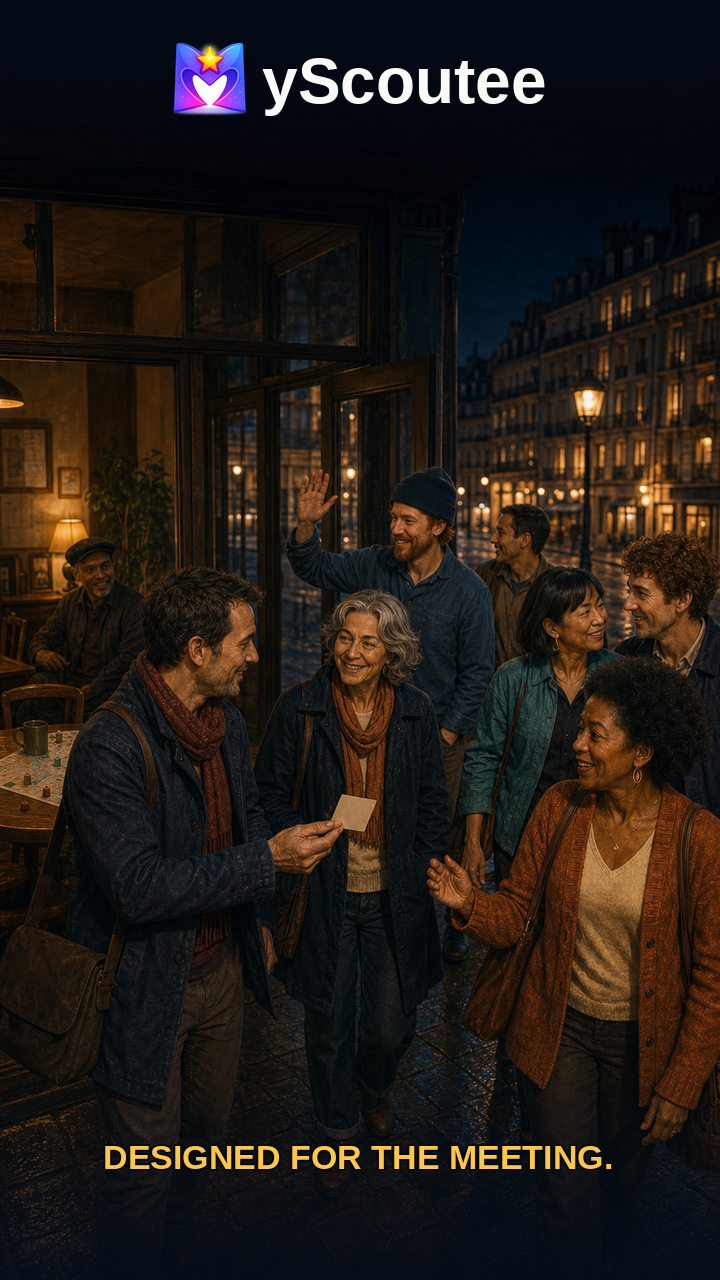
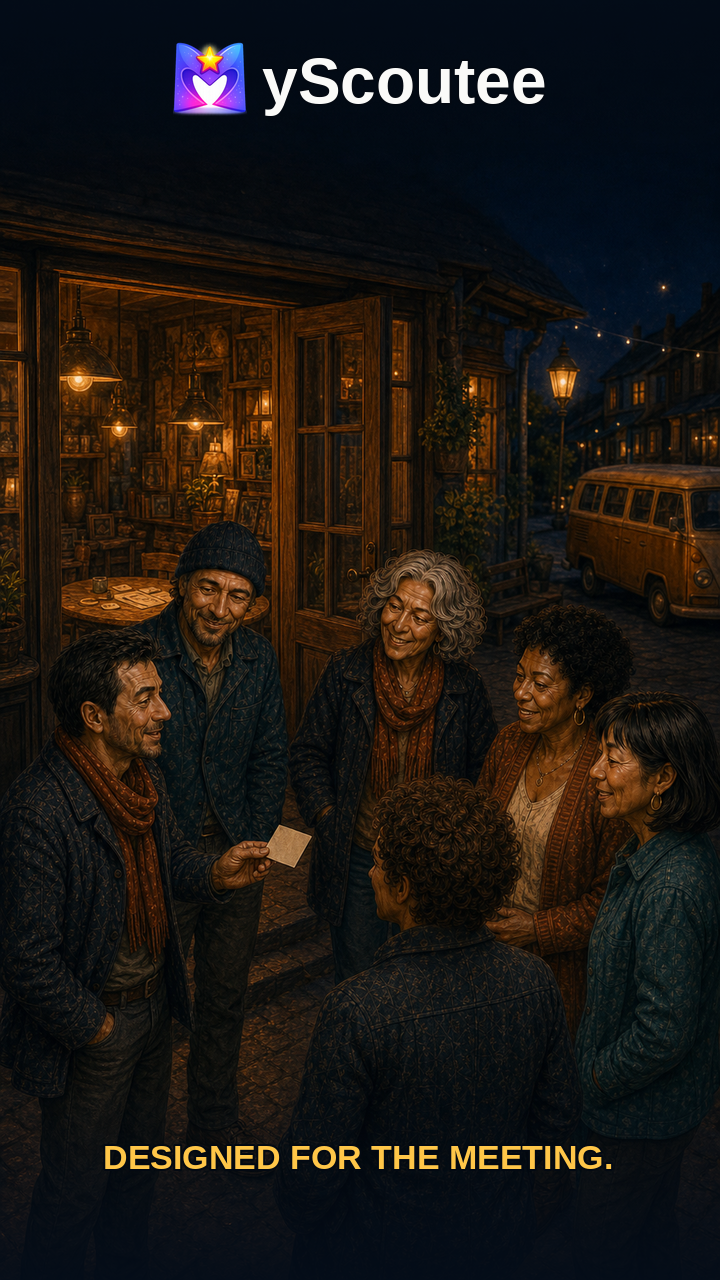
fix(story): isolate product demo frame chain

diff --git a/guides/story/product-demo/scripts/build_brand_frames.py b/guides/story/product-demo/scripts/build_brand_frames.py
@@ -1,15 +1,17 @@
 #!/usr/bin/env python3
-"""Build deterministic 720x1280 opening and closing review frames."""
+"""Build seven local 720x1280 checkpoints and branded review frames."""
 
 from pathlib import Path
 from PIL import Image, ImageDraw, ImageFont
 
 ROOT = Path(__file__).resolve().parents[4]
 PACKAGE = ROOT / "guides/story/product-demo"
-SOURCE = PACKAGE / "assets/source/PR_CP00_imagegen_source.png"
 FRAMES = PACKAGE / "assets/frames"
 LOGO = ROOT / "frontend/src/assets/logo/heart.png"
-ENDING = PACKAGE / "assets/source/PR_CP22_USER_imagegen_source.png"
+SOURCES = {
+    name: PACKAGE / f"assets/source/{name}_imagegen_source.png"
+    for name in ("PR_CP00", "PR_CP08", "PR_CP16", "PR_CP24", "PR_CP32", "PR_CP40", "PR_CP48")
+}
 FONT_REGULAR = Path("/usr/share/fonts/truetype/liberation2/LiberationSans-Regular.ttf")
 FONT_BOLD = Path("/usr/share/fonts/truetype/liberation2/LiberationSans-Bold.ttf")
 SIZE = (720, 1280)
@@ -63,23 +65,25 @@ def centered_text(image: Image.Image, text: str, y: int, size: int) -> None:
 
 def main() -> None:
     FRAMES.mkdir(parents=True, exist_ok=True)
-    clean = cover(Image.open(SOURCE))
-    clean.save(FRAMES / "PR_CP00.png", optimize=True)
+    for name, source in SOURCES.items():
+        cover(Image.open(source)).save(FRAMES / f"{name}.png", optimize=True)
+
+    clean = Image.open(FRAMES / "PR_CP00.png")
 
     opening = gradient_overlay(clean, 180, 170)
     brand(opening, 42)
     centered_text(opening, "MATCH ≠ MEETING", 1165, 42)
     opening.convert("RGB").save(FRAMES / "PR_P00.png", optimize=True)
 
-    clean_ending = cover(Image.open(ENDING))
-    clean_ending.save(FRAMES / "PR_CP22_USER.png", optimize=True)
+    clean_ending = Image.open(FRAMES / "PR_CP48.png")
     closing = gradient_overlay(clean_ending, 180, 205)
     brand(closing, 42)
     centered_text(closing, "DESIGNED FOR THE MEETING.", 1138, 34)
     closing.convert("RGB").save(FRAMES / "PR_F48.png", optimize=True)
 
-    for path in (FRAMES / "PR_CP00.png", FRAMES / "PR_CP22_USER.png",
-                 FRAMES / "PR_P00.png", FRAMES / "PR_F48.png"):
+    paths = [FRAMES / f"{name}.png" for name in SOURCES]
+    paths.extend((FRAMES / "PR_P00.png", FRAMES / "PR_F48.png"))
+    for path in paths:
         with Image.open(path) as image:
             if image.size != SIZE:
                 raise RuntimeError(f"Unexpected frame size: {path} {image.size}")

diff --git a/guides/story/product-demo/storyboard/STORYBOARD.md b/guides/story/product-demo/storyboard/STORYBOARD.md
@@ -6,12 +6,12 @@ inputs.
 
 | Shot | Time | Exact endpoints | Retention job |
 | --- | --- | --- | --- |
-| S01 | 00:00–00:08 | `PR_CP00 → M1_CP17` | frame-one brand; a match lacks time/place/plan; private intent supplies the first missing step |
-| S02 | 00:08–00:16 | `M1_CP17 → M1_CP18` | private `1–10`, reciprocal/context/distance, six distinct candidates |
-| S03 | 00:16–00:24 | `M1_CP18 → M1_CP19` | group-first plus separate accept/decline; one shared table |
-| S04 | 00:24–00:32 | `M1_CP19 → M1_CP20` | one contextual chat/activity becomes people, transport, place and supplies |
-| S05 | 00:32–00:40 | `M1_CP20 → M1_CP21` | the planned real meeting happens before 00:37 |
-| S06 | 00:40–00:48 | `M1_CP21 → PR_CP22_USER` | shared context becomes a warmer next invitation; closing brand |
+| S01 | 00:00–00:08 | `PR_CP00 → PR_CP08` | frame-one brand; a match lacks time/place/plan; private intent supplies the first missing step |
+| S02 | 00:08–00:16 | `PR_CP08 → PR_CP16` | private `1–10`, reciprocal/context/distance, six distinct candidates |
+| S03 | 00:16–00:24 | `PR_CP16 → PR_CP24` | six separate acceptances converge on one shared activity proposal |
+| S04 | 00:24–00:32 | `PR_CP24 → PR_CP32` | the accepted proposal becomes people, transport, place and supplies |
+| S05 | 00:32–00:40 | `PR_CP32 → PR_CP40` | the plan becomes a real meeting before 00:37 |
+| S06 | 00:40–00:48 | `PR_CP40 → PR_CP48` | shared context becomes a warmer next invitation; closing brand |
 
 ## P00 — first visible frame
 
@@ -26,7 +26,8 @@ The Founder receives a familiar online signal without sadness or blame, then
 faces two sepia portrait cards with simple reject/accept symbols and a phone.
 There is still no shared activity, time or place. The cards settle onto the desk
 and the simple symbols disappear. Ten
-small amber tokens and a private pair card become visible. No named competitor,
+small amber tokens, one portrait card, an aqua reciprocal token and a blank
+activity card become visible. No named competitor,
 generated interface text, mockery or public human rating.
 
 ## S02 — graded private intent to candidate group
@@ -39,22 +40,21 @@ result.
 ## S03 — each person decides
 
 The same six adults independently consider the same activity proposal, with
-accept and decline equally available. Only after the last acceptance does the
-paper table become a real shared table. No pair dominates the room.
+accept and decline equally available. Only after the last acceptance do all six
+paths reach the central activity model. They remain physically separate here;
+no pair dominates.
 
 ## S04 — the match becomes a plan
 
 One contextual group conversation produces a chosen activity and exactly four
 event-resource families: people, transport, place/accommodation and supplies.
-Check-in and feedback remain separate secondary cards. A local provider brings
-the supplies at the end.
+The same six people remain visible around one shared practical plan.
 
 ## S05 — people actually meet
 
-The provider completes the practical handoff and a new mature participant enters
-the same public room. The six original strangers and wider community are now in
-one activity context. Reach the meeting image by 00:33–00:34 and let it breathe
-through the observed 00:37 retention boundary.
+The symbolic plan becomes a real public room. The same six adults sit around one
+shared creative/tabletop activity with equal space. Reach the meeting image by
+00:33–00:34 and let it breathe through the observed 00:37 retention boundary.
 
 ## S06 — the next invitation is no longer cold
 
@@ -63,5 +63,5 @@ Several conversations continue without forcing romantic pairs. The Founder
 offers one blank tactile card for a future shared activity while the used table
 remains visible inside. Fade in the exact mark and
 `DESIGNED FOR THE MEETING.` during the final 2.5 seconds; end exactly on the
-deterministic `PR_F48` composite. No operator, administrator, server, deployment
+deterministic `PR_F48` composite over `PR_CP48`. No operator, administrator, server, deployment
 or business-model explanation appears.

diff --git a/guides/story/product-demo/prompts/FRAME_GENERATION.md b/guides/story/product-demo/prompts/FRAME_GENERATION.md
@@ -1,0 +1,71 @@
+# Product-demo checkpoint generation briefs
+
+These seven frames are original assets owned by this package. They were created
+with the built-in image-generation workflow, then normalized to `720×1280` by
+`scripts/build_brand_frames.py`. The resulting production package does not
+reference a trilogy asset.
+
+## Shared visual lock
+
+Premium cinematic painterly 2.5D storybook illustration; expressive hand-drawn
+mature-adult linework integrated into dimensional paper, painted wood, wool,
+brass and graphite textures. Portrait `9:16`, central mobile-safe composition,
+warm autumn lamplight, deep navy shadows. Exactly three women and three men in
+the candidate/group stages, including the dark-haired Founder in a rust scarf.
+No text, logo, app UI, public rating, forced pair, child, duplicate identity,
+server, administrator, operator or watermark.
+
+## `PR_CP00` — familiar signal, missing path
+
+The Founder sits at his wooden desk with a phone and two tactile adult portrait
+cards carrying restrained reject/accept symbols. He is thoughtful, not sad.
+No shared activity, time, place or plan is present. The image establishes the
+recognizable problem without naming or mocking another service.
+
+## `PR_CP08` — private editable intention
+
+The same Founder lowers the phone. On the desk: one portrait card, exactly ten
+small amber wooden tokens, one aqua reciprocal token, one blank activity card
+and the cognac notebook. The objects show a private editable priority and the
+first constructive step; they never rate a person's public worth.
+
+## `PR_CP16` — six separate candidates
+
+Keep the Founder at his desk and introduce five separate tactile portrait
+windows: a silver-haired woman with rust scarf, a Black woman in warm rust
+tones, an East Asian woman in teal, a curly-haired man and a bearded man in a
+dark knit cap. Exactly six people total. Dotted amber, aqua and coral paths
+approach one empty activity table; nobody has met or been paired.
+
+## `PR_CP24` — six independent acceptances
+
+Arrange the same six adults in separate portrait windows around one handmade
+shared-activity model. Every adult independently places one aqua wooden token
+on their own blank invitation card. Six paths reach the central model only
+after all six choices. No pair dominates, and this is not yet the real meeting.
+
+## `PR_CP32` — one practical plan
+
+Keep the same six accepted adults in separate windows around a central four-
+quadrant planning table: exactly six wooden participant figures; one minibus
+and route cord; one welcoming venue with open door and key; one crate of
+ordinary activity supplies. One blank activity card sits at the center. The
+final accepted variant contains exactly six portrait identities and six wooden
+figures.
+
+## `PR_CP40` — real shared meeting
+
+Transform the model into a believable warm public activity room. The exact same
+six adults now sit around one round table using sketch paper, simple game pieces
+and cups. The open door, supply crate and minibus outside quietly confirm that
+the plan became real. All six faces remain distinct and equally important; no
+romantic spotlight.
+
+## `PR_CP48` — warmer next invitation
+
+Outside the same venue after the activity, the exact same six adults continue
+several open conversations. The used table remains visible inside. The Founder
+offers one small blank future-activity card to the whole group. Leave dark
+negative space above for the exact post-production brand and below for the
+closing line. Shared context makes the next invitation warmer without promising
+romance or attendance.

diff --git a/guides/story/product-demo/film/SCRIPT.md b/guides/story/product-demo/film/SCRIPT.md
@@ -8,10 +8,10 @@ voice settings are in [NARRATION_PRODUCTION_CUT.md](NARRATION_PRODUCTION_CUT.md)
 | Time | English narration | Hungarian meaning | Picture | Post text |
 | --- | --- | --- | --- | --- |
 | 00:00–00:08 | You get a match. But it has no time, place or shared plan. MyScoutee builds that missing path. | Létrejön egy match. De nincs benne időpont, hely vagy közös terv. A MyScoutee ezt a hiányzó utat építi meg. | a familiar phone signal becomes the Founder's private priority desk | exact mark + `yScoutee` at top; `MATCH ≠ MEETING` at bottom; fade by 00:02.5 |
-| 00:08–00:16 | Your interest becomes a private, editable one-to-ten priority, connected with mutual intent, distance and context. | Az érdeklődésed privát, módosítható, egytől tízig prioritássá válik, amelyet a kölcsönös szándék, a távolság és a helyzet kapcsol össze. | one private priority becomes six separate candidate windows | add exact `1–10` graphic only in post if needed |
+| 00:08–00:16 | Your interest becomes a private, editable one-to-ten priority, connected with mutual intent, distance and context. | Az érdeklődésed privát, módosítható, egytől tízig prioritássá válik, amelyet a kölcsönös szándék, a távolság és a helyzet kapcsol össze. | one private priority opens five candidate windows around the Founder: six separate people total | add exact `1–10` graphic only in post if needed |
 | 00:16–00:24 | A balanced group can form around one activity. Each person sees the proposal and accepts or declines for themselves. | Egy közös program körül kiegyensúlyozott csoport formálódhat. Mindenki látja a javaslatot, és maga fogadja el vagy utasítja el. | six independent decisions become one real shared table | optional icon-only accept/decline layer, equal visual weight |
-| 00:24–00:32 | Those who accept share one contextual chat, then coordinate people, transport, place and supplies. | Az elfogadók közös beszélgetésben egyeztetik az embereket, az utazást, a helyet és a kellékeket. | table becomes four real event-resource families | no generated UI words |
-| 00:32–00:40 | Then you meet. Profiles gain voices, and strangers gain real context, while every priority stays private. | Aztán találkoztok. A profilok hangot, az idegenek közös hátteret kapnak, miközben minden prioritás privát marad. | the planned event is occupied and expands beyond the first six | meeting is physically visible by 00:33 |
+| 00:24–00:32 | Those who accept share one contextual chat, then coordinate people, transport, place and supplies. | Az elfogadók közös beszélgetésben egyeztetik az embereket, az utazást, a helyet és a kellékeket. | six accepted paths become four practical resource families | no generated UI words |
+| 00:32–00:40 | Then you meet. Profiles gain voices, and strangers gain real context, while every priority stays private. | Aztán találkoztok. A profilok hangot, az idegenek közös hátteret kapnak, miközben minden prioritás privát marad. | the same six people occupy the planned shared activity | meeting is physically visible by 00:33 |
 | 00:40–00:48 | The next invitation begins with shared experience, not another cold opening line. MyScoutee is designed for the meeting. | A következő meghívás közös élményből indul, nem egy újabb hideg nyitómondatból. A MyScoutee találkozásra tervezve. | the same adults leave the venue together and one blank next-activity invitation appears | exact mark + `yScoutee` top from 00:45.5; `DESIGNED FOR THE MEETING.` bottom |
 
 ## Voice direction

diff --git a/guides/story/product-demo/assets/frames/README.md b/guides/story/product-demo/assets/frames/README.md
@@ -1,27 +1,21 @@
 # Frame map
 
-## Owned frames
+## Owned checkpoint chain
 
 | Role | File | Flow input? |
 | --- | --- | --- |
-| clean binary opening | `PR_CP00.png` | yes, S01 first |
-| users after the meeting | `PR_CP22_USER.png` | yes, S06 last |
+| familiar match, missing path | `PR_CP00.png` | yes, S01 first |
+| private editable intention | `PR_CP08.png` | yes, S01 last / S02 first |
+| six separate candidates | `PR_CP16.png` | yes, S02 last / S03 first |
+| six individual acceptances | `PR_CP24.png` | yes, S03 last / S04 first |
+| people, transport, place, supplies | `PR_CP32.png` | yes, S04 last / S05 first |
+| real shared meeting | `PR_CP40.png` | yes, S05 last / S06 first |
+| warmer next invitation | `PR_CP48.png` | yes, S06 last |
 | branded first-frame reference | `PR_P00.png` | no, post composite |
 | branded last-frame reference | `PR_F48.png` | no, post composite |
 
-## Referenced exact checkpoints
-
-All paths are relative to this directory.
-
-- `../../../trilogy/01-the-city-between-us/assets/frames/M1_CP17.png`
-- `../../../trilogy/01-the-city-between-us/assets/frames/M1_CP18.png`
-- `../../../trilogy/01-the-city-between-us/assets/frames/M1_CP19.png`
-- `../../../trilogy/01-the-city-between-us/assets/frames/M1_CP20.png`
-- `../../../trilogy/01-the-city-between-us/assets/frames/M1_CP21.png`
-- provider identity for S04:
-  `../../../trilogy/01-the-city-between-us/assets/characters/M1_LOCAL_PROVIDER.png`
-- exact brand source:
-  `../../../../../frontend/src/assets/logo/heart.png`
+The exact brand source is
+`../../../../../frontend/src/assets/logo/heart.png`.
 
 `PR_P00` and `PR_F48` use the untouched heart asset with editable rasterized
 `yScoutee`; they document the first/last appearance but never enter Flow.

diff --git a/guides/story/product-demo/production/RELEASE_CHECKLIST.md b/guides/story/product-demo/production/RELEASE_CHECKLIST.md
@@ -5,8 +5,8 @@
 - [ ] Flow still shows **Veo 3.1 Lite**, Frames, exact first+last, `8 s`, `9:16`.
 - [ ] The live credit charge is confirmed before S01; six accepted first passes
   are budgeted, retries only repair a named defect.
-- [ ] `PR_CP00.png`, `PR_CP22_USER.png` and the referenced `M1_CP17`–`M1_CP21`
-  files are the exact uploaded frames.
+- [ ] All seven local `PR_CP00.png`–`PR_CP48.png` checkpoints are the exact
+  uploaded first/last frames in manifest order.
 - [ ] The continuity prefix and one matching Sxx prompt are pasted together.
 - [ ] One result is requested; Flow audio is retained unless it contains speech,
   singing or a concrete defect.
@@ -14,7 +14,7 @@
 ## Review each clip
 
 - [ ] First and last composition match the supplied endpoints.
-- [ ] Founder, six candidates, provider and later meeting participants retain
+- [ ] Founder and the same six-person cast retain
   face, age, clothing and body.
 - [ ] No duplicate/merged person, bad hand, camera jump, generated text or logo.
 - [ ] One clear action and one restrained camera move.
@@ -30,7 +30,7 @@
 - [ ] S06 contains only users, shared context and the next invitation; no
   operator, administrator, server or deployment explanation.
 - [ ] Actual meeting is visible by 00:33–00:34 and remains legible at 00:37.
-- [ ] No Part I/II/III or “The Story” wording appears.
+- [ ] No trilogy part number or “The Story” wording appears.
 
 ## Audio, captions and claims
 

diff --git a/guides/story/product-demo/assets/README.md b/guides/story/product-demo/assets/README.md
@@ -1,15 +1,14 @@
 # Product-reel assets
 
-- `source/PR_CP00_imagegen_source.png`: approved AI-generated binary-choice
-  source plate; preserve the original generated file elsewhere as required by
-  the image-generation workflow.
-- `source/PR_CP22_USER_imagegen_source.png`: approved human post-meeting closing
-  source; preserve the original generated file in the image-generation output.
-- `frames/PR_CP00.png`: normalized clean S01 Flow input, `720×1280`.
-- `frames/PR_CP22_USER.png`: normalized clean S06 Flow endpoint, `720×1280`.
+- `source/PR_CP00_imagegen_source.png` through
+  `source/PR_CP48_imagegen_source.png`: seven independently generated,
+  product-demo-owned source checkpoints at eight-second boundaries.
+- `frames/PR_CP00.png` through `frames/PR_CP48.png`: the seven normalized local
+  Flow endpoints, each `720×1280`.
 - `frames/PR_P00.png`: deterministic first-frame review composite.
 - `frames/PR_F48.png`: deterministic final-frame review composite.
-- `frames/README.md`: exact external endpoint and logo map.
+- `frames/README.md`: exact endpoint and logo map.
 
-The Part I checkpoint chain is referenced rather than duplicated. Do not edit
-those assets through this package.
+The product demo has no frame, character or prompt dependency on a trilogy
+package. Preserve the original image-generation outputs outside the repository
+as required by the image-generation workflow.

diff --git a/guides/story/product-demo/prompts/README.md b/guides/story/product-demo/prompts/README.md
@@ -4,14 +4,17 @@ For each shot paste [continuity-prefix.txt](continuity-prefix.txt), one blank
 line, then the matching file under `flow/`. Use Video → Frames, exact first and
 last images, Veo 3.1 Lite, 8 seconds, 9:16, one result.
 
+The seven original checkpoint-image briefs and their shared visual lock are in
+[FRAME_GENERATION.md](FRAME_GENERATION.md).
+
 | Shot | Prompt | Endpoint pair |
 | --- | --- | --- |
-| S01 | [flow/S01.txt](flow/S01.txt) | `PR_CP00 → M1_CP17` |
-| S02 | [flow/S02.txt](flow/S02.txt) | `M1_CP17 → M1_CP18` |
-| S03 | [flow/S03.txt](flow/S03.txt) | `M1_CP18 → M1_CP19` |
-| S04 | [flow/S04.txt](flow/S04.txt) | `M1_CP19 → M1_CP20` plus `M1_LOCAL_PROVIDER` reference |
-| S05 | [flow/S05.txt](flow/S05.txt) | `M1_CP20 → M1_CP21` |
-| S06 | [flow/S06.txt](flow/S06.txt) | `M1_CP21 → PR_CP22_USER` |
+| S01 | [flow/S01.txt](flow/S01.txt) | `PR_CP00 → PR_CP08` |
+| S02 | [flow/S02.txt](flow/S02.txt) | `PR_CP08 → PR_CP16` |
+| S03 | [flow/S03.txt](flow/S03.txt) | `PR_CP16 → PR_CP24` |
+| S04 | [flow/S04.txt](flow/S04.txt) | `PR_CP24 → PR_CP32` |
+| S05 | [flow/S05.txt](flow/S05.txt) | `PR_CP32 → PR_CP40` |
+| S06 | [flow/S06.txt](flow/S06.txt) | `PR_CP40 → PR_CP48` |
 
 The logo and all readable text are post-only. `PR_P00` and `PR_F48` are review
 references, never Flow inputs.

diff --git a/guides/story/product-demo/scripts/README.md b/guides/story/product-demo/scripts/README.md
@@ -1,8 +1,8 @@
 # Reproducible tools
 
-- `build_brand_frames.py`: normalizes the approved generated opening plate and
-  builds deterministic branded first/last PNG references using the untouched
-  repository logo.
+- `build_brand_frames.py`: normalizes all seven product-demo-owned generated
+  checkpoints and builds deterministic branded first/last PNG references using
+  the untouched repository logo.
 - `build_mini_book.py`: converts the canonical English Markdown and controlled
   Hungarian translation to illustrated HTML/PDF editions, then writes each
   checksum and publication record.

diff --git a/guides/story/product-demo/overview/README.md b/guides/story/product-demo/overview/README.md
@@ -31,6 +31,9 @@ workflow become clear through the same user's journey.
 - final MP4: deliberately outside Git; prompts, sources, frames, captions and
   the PDF are versioned here.
 
+All seven Flow checkpoints are newly generated and owned inside this package;
+the production chain has no frame or character dependency on a trilogy part.
+
 The opening brand and `MATCH ≠ MEETING` hook are post overlays on S01. The
 closing brand and `DESIGNED FOR THE MEETING.` line are post overlays on S06's
 human, post-meeting street image—never on a server or operator scene.

diff --git a/guides/story/product-demo/film/CREATIVE_BIBLE.md b/guides/story/product-demo/film/CREATIVE_BIBLE.md
@@ -44,7 +44,8 @@ fake testimonials, lonely loser imagery or romantic guarantee.
 
 ## Visual language
 
-Inherit the approved Part I painterly 2.5D Founder and six-person group. Start on
+Continue the story-edition painterly 2.5D visual family with a newly generated,
+product-demo-owned six-person cast, including the Founder. Start on
 an all-or-nothing binary phone choice, turn it into private graded intent, then
 let separate people become a voluntarily accepted group, a shared activity, a
 real table and a warmer next invitation. Amber is private intent, aqua is

diff --git a/guides/story/product-demo/film/NARRATION_PRODUCTION_CUT.md b/guides/story/product-demo/film/NARRATION_PRODUCTION_CUT.md
@@ -10,7 +10,7 @@ Similarity: `55`
 Style exaggeration: `20`
 Speaker boost: `Off`
 
-These are the same approved Part I values. Before paid generation, record the
+These are the approved story-edition values. Before paid generation, record the
 live ElevenLabs voice ID and exact model version in
 `NARRATION_MIX_MANIFEST.json`; the display name alone is not a reproducible
 identifier.
